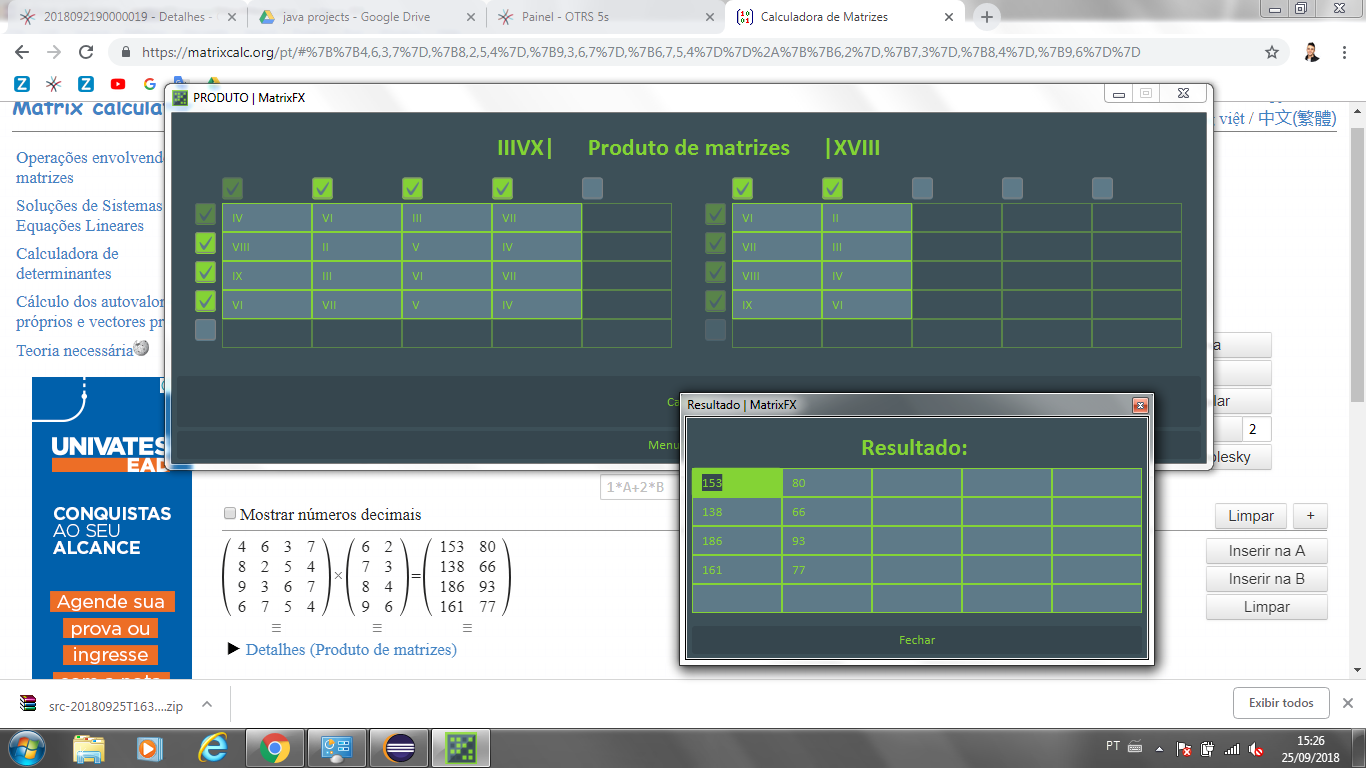
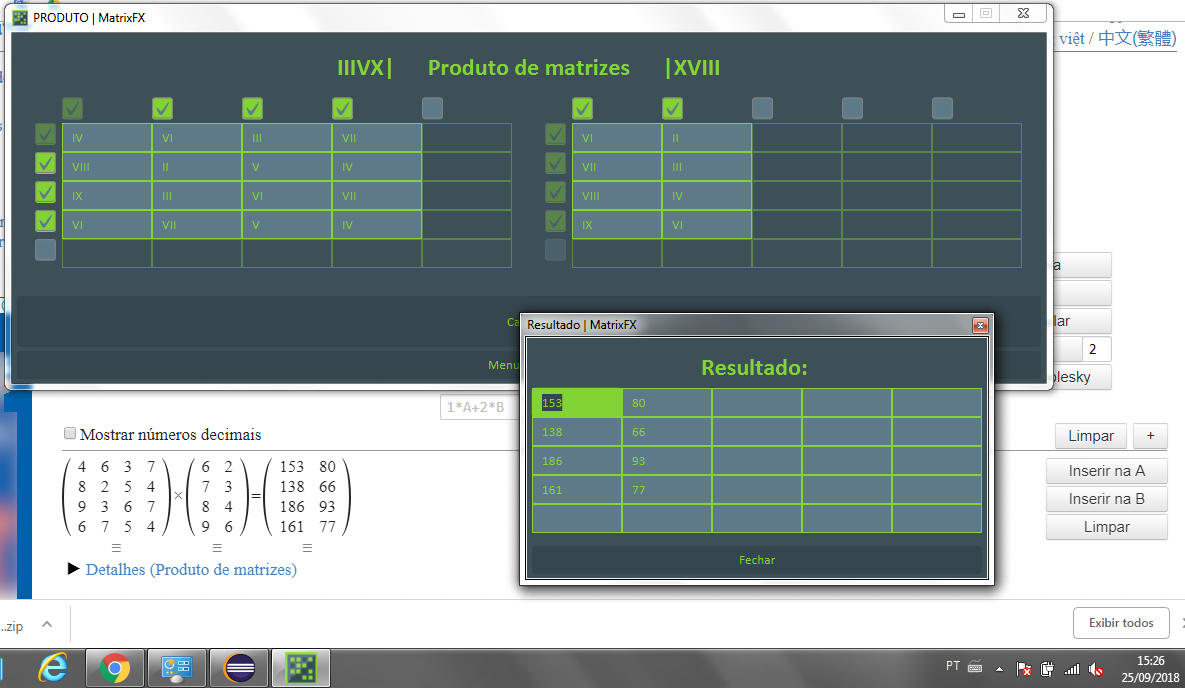
Minor changes
- Changed some commentaries to improve readability.

diff --git a/src/ui/MatrixOp.java b/src/ui/MatrixOp.java
@@ -37,17 +37,23 @@ public class MatrixOp extends Application {
 	private Button btCalc, btQuit;
 	private Image pI;
 
+	// empty contructor
+	public MatrixOp() {} 
 	
-	public MatrixOp() {} // empty contructor
-	
-	public MatrixOp(OperationType opType) // enum param constructor 
+	// enum param constructor 
+	public MatrixOp(OperationType opType) 
 	{
 		this.opType = opType;
 	}
-
-	// initialize screen
+	
+	// entry point
+	public static void main(String[] args) {
+		launch(args);
+	}
+	
+	// launch call
 	public void start(Stage stage) throws Exception {
-		// objetos necess�rios para projetar a tela
+		// scene setting
 		this.stage = stage;
 		root = new Pane();
 		scene = new Scene(root, 1024, 340);
@@ -113,12 +119,12 @@ public class MatrixOp extends Application {
 				break;
 		}
 
-		// projetar janela
+		// window frame setting
 		stage.setScene(scene);
 		stage.setResizable(false);
 		stage.show();
 
-		// seleciona e desabilita caixas de checagem no come�o
+		// start disabling check boxes
 		chBxAI1.setSelected(true);
 		chBxAJ1.setSelected(true);
 		chBxAI1.setDisable(true);
@@ -143,8 +149,8 @@ public class MatrixOp extends Application {
 			}
 		}
 
-		// chamada de verifica��o de caixas de checagem
-		verify();
+		// check box disabling based on neighbors
+		updateCheckBoxes();
 
 		// a��es disparadas entre as caixas de checagem
 		chBxAI5.setOnAction(new EventHandler<ActionEvent>() {
@@ -161,7 +167,7 @@ public class MatrixOp extends Application {
 					chBxBI5.fire();
 					chBxBI5.setDisable(true);
 				}
-				verify();
+				updateCheckBoxes();
 			}
 		});
 		chBxAI4.setOnAction(new EventHandler<ActionEvent>() {
@@ -178,7 +184,7 @@ public class MatrixOp extends Application {
 					chBxBI4.fire();
 					chBxBI4.setDisable(true);
 				}
-				verify();
+				updateCheckBoxes();
 			}
 		});
 		chBxAI3.setOnAction(new EventHandler<ActionEvent>() {
@@ -195,7 +201,7 @@ public class MatrixOp extends Application {
 					chBxBI3.fire();
 					chBxBI3.setDisable(true);
 				}
-				verify();
+				updateCheckBoxes();
 			}
 		});
 		chBxAI2.setOnAction(new EventHandler<ActionEvent>() {
@@ -212,7 +218,7 @@ public class MatrixOp extends Application {
 					chBxBI2.fire();
 					chBxBI2.setDisable(true);
 				}
-				verify();
+				updateCheckBoxes();
 			}
 		});
 
@@ -235,7 +241,7 @@ public class MatrixOp extends Application {
 					chBxBI5.fire();
 					chBxBI5.setDisable(true);
 				}
-				verify();
+				updateCheckBoxes();
 			}
 		});
 		chBxAJ4.setOnAction(new EventHandler<ActionEvent>() {
@@ -257,7 +263,7 @@ public class MatrixOp extends Application {
 					chBxBI4.fire();
 					chBxBI4.setDisable(true);
 				}
-				verify();
+				updateCheckBoxes();
 			}
 		});
 		chBxAJ3.setOnAction(new EventHandler<ActionEvent>() {
@@ -279,7 +285,7 @@ public class MatrixOp extends Application {
 					chBxBI3.fire();
 					chBxBI3.setDisable(true);
 				}
-				verify();
+				updateCheckBoxes();
 			}
 		});
 		chBxAJ2.setOnAction(new EventHandler<ActionEvent>() {
@@ -301,7 +307,7 @@ public class MatrixOp extends Application {
 					chBxBI2.fire();
 					chBxBI2.setDisable(true);
 				}
-				verify();
+				updateCheckBoxes();
 			}
 		});
 
@@ -315,7 +321,7 @@ public class MatrixOp extends Application {
 						chBxBI1.setSelected(true);
 					} else {
 					}
-					verify();
+					updateCheckBoxes();
 				}
 			});
 			chBxBI4.setOnAction(new EventHandler<ActionEvent>() {
@@ -327,7 +333,7 @@ public class MatrixOp extends Application {
 					} else {
 						chBxBI5.setSelected(false);
 					}
-					verify();
+					updateCheckBoxes();
 				}
 			});
 			chBxBI3.setOnAction(new EventHandler<ActionEvent>() {
@@ -339,7 +345,7 @@ public class MatrixOp extends Application {
 						chBxBI5.setSelected(false);
 						chBxBI4.setSelected(false);
 					}
-					verify();
+					updateCheckBoxes();
 				}
 			});
 			chBxBI2.setOnAction(new EventHandler<ActionEvent>() {
@@ -351,7 +357,7 @@ public class MatrixOp extends Application {
 						chBxBI4.setSelected(false);
 						chBxBI3.setSelected(false);
 					}
-					verify();
+					updateCheckBoxes();
 				}
 			});
 			chBxBJ5.setOnAction(new EventHandler<ActionEvent>() {
@@ -363,7 +369,7 @@ public class MatrixOp extends Application {
 						chBxBJ1.setSelected(true);
 					} else {
 					}
-					verify();
+					updateCheckBoxes();
 				}
 			});
 			chBxBJ4.setOnAction(new EventHandler<ActionEvent>() {
@@ -375,7 +381,7 @@ public class MatrixOp extends Application {
 					} else {
 						chBxBJ5.setSelected(false);
 					}
-					verify();
+					updateCheckBoxes();
 				}
 			});
 			chBxBJ3.setOnAction(new EventHandler<ActionEvent>() {
@@ -387,7 +393,7 @@ public class MatrixOp extends Application {
 						chBxBJ5.setSelected(false);
 						chBxBJ4.setSelected(false);
 					}
-					verify();
+					updateCheckBoxes();
 				}
 			});
 			chBxBJ2.setOnAction(new EventHandler<ActionEvent>() {
@@ -399,7 +405,7 @@ public class MatrixOp extends Application {
 						chBxBJ4.setSelected(false);
 						chBxBJ3.setSelected(false);
 					}
-					verify();
+					updateCheckBoxes();
 				}
 			});
 		}
@@ -624,7 +630,7 @@ public class MatrixOp extends Application {
 	}
 
 	// m�todo que verifica todas as caixas de checagem e habilita/desabilita campos
-	private void verify() {
+	private void updateCheckBoxes() {
 		if (chBxAI1.isSelected() && chBxAJ1.isSelected()) {
 			tFA11.setDisable(false);
 		} else {
@@ -1290,9 +1296,5 @@ public class MatrixOp extends Application {
 
 				chBxBI1, chBxBI2, chBxBI3, chBxBI4, chBxBI5, chBxBJ1, chBxBJ2, chBxBJ3, chBxBJ4, chBxBJ5);
 	}
-
-	// ponto de partida da aplica��o
-	public static void main(String[] args) {
-		launch(args);
-	}
+	
 }
